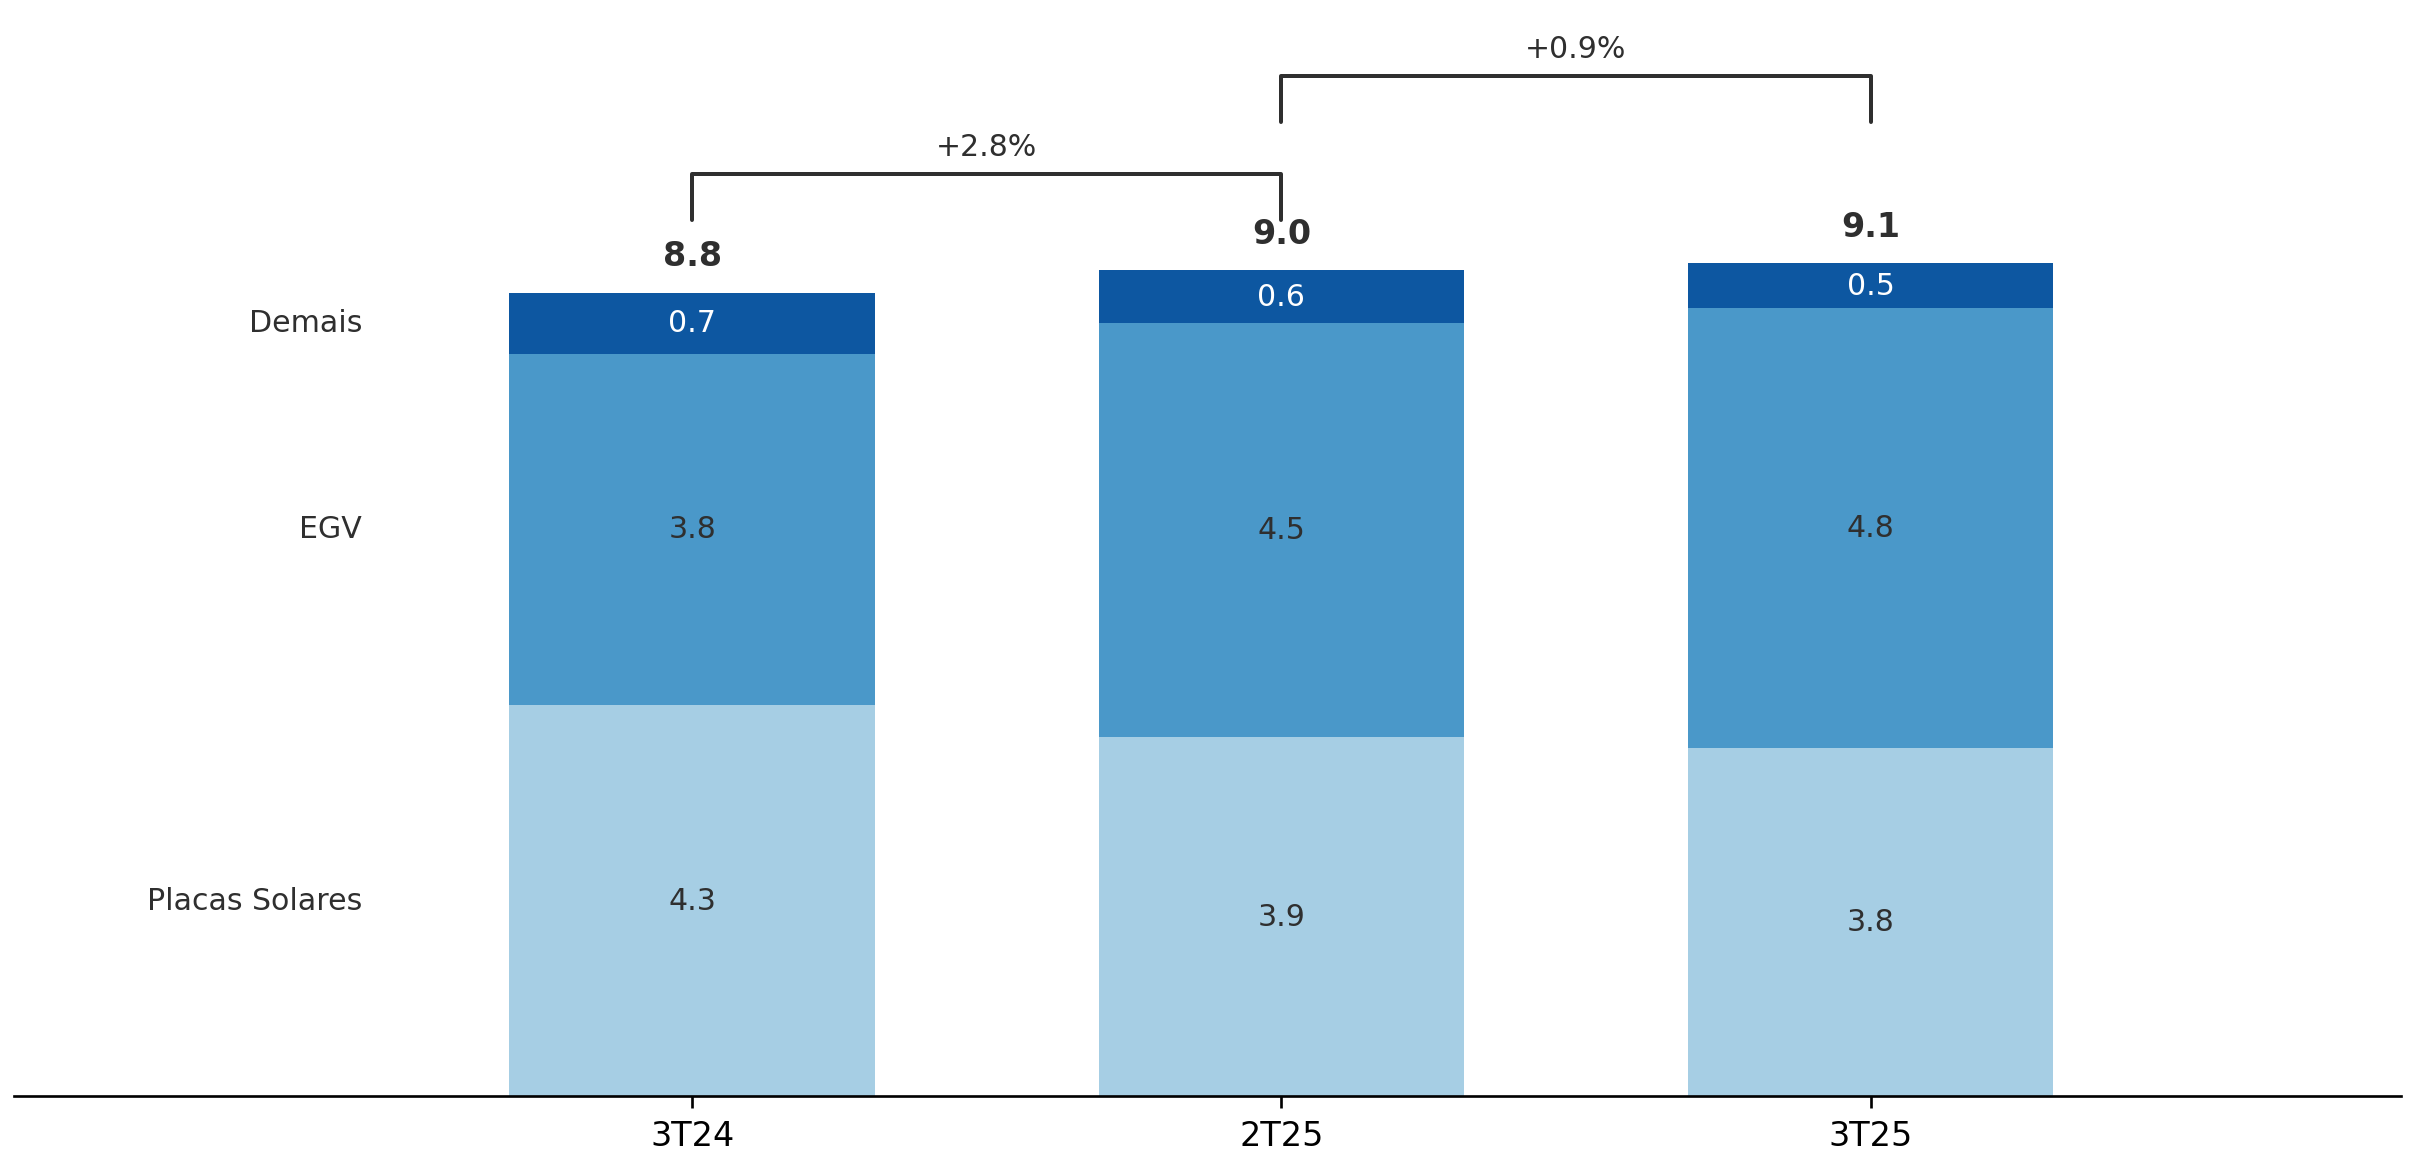
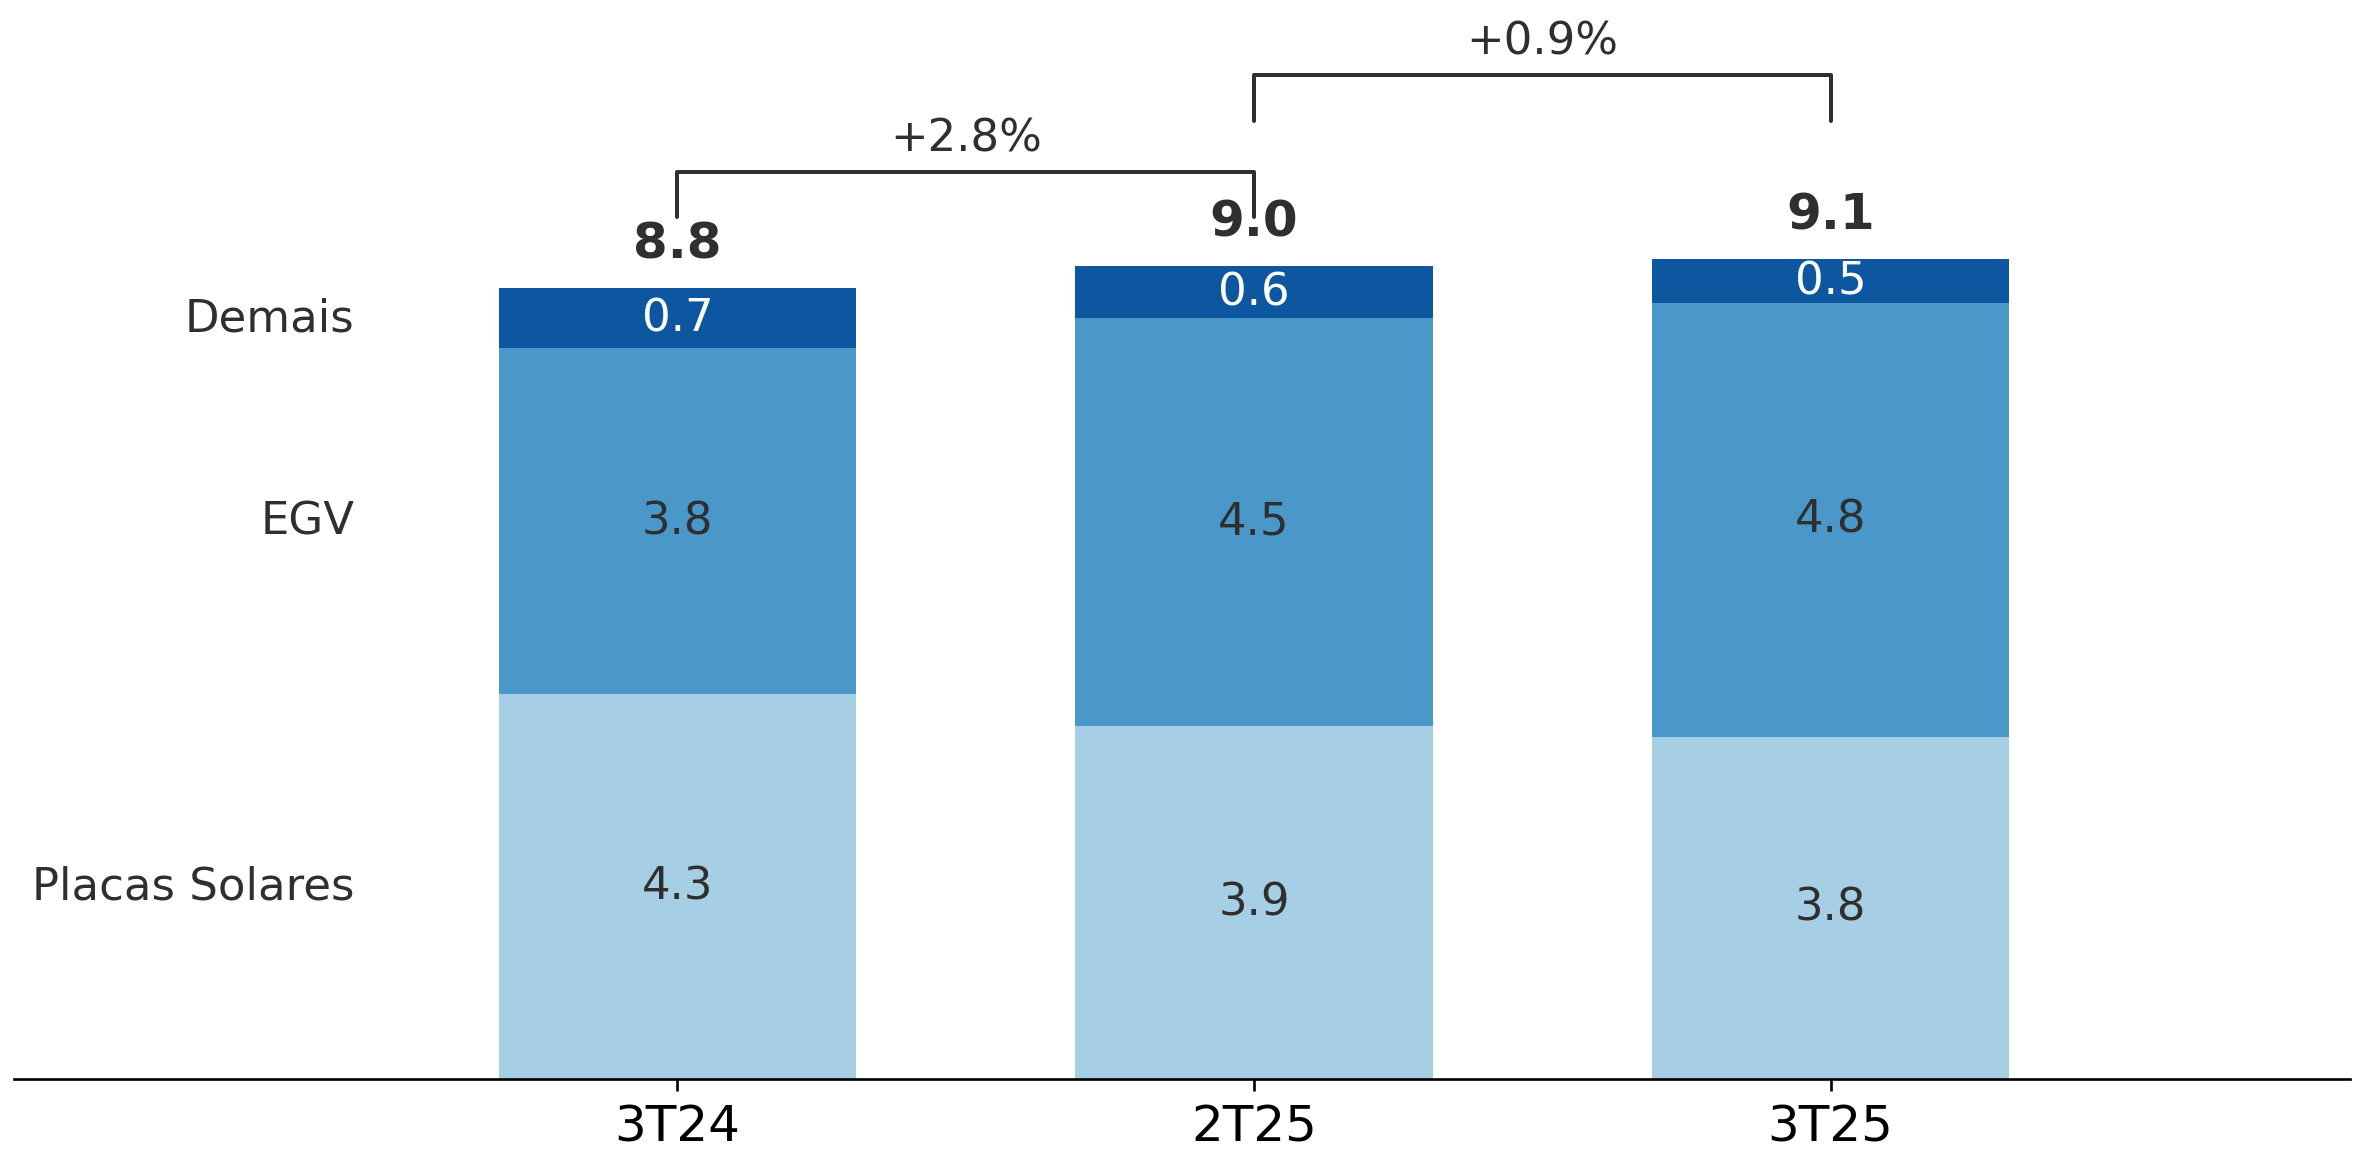
make the slide 3 chart font size higher

diff --git a/utils/slide3_charts.py b/utils/slide3_charts.py
@@ -112,6 +112,7 @@ def plot_emprestimos_stacked(
     left_label_margin_slots: float = 1.15,
     show_delta_pct: bool = True,
     show_delta_bracket: bool = True,
+    font_scale: float = 1.0,
     figsize=(10, 4.8),
     dpi: int = 240,
 ):
@@ -169,7 +170,7 @@ def plot_emprestimos_stacked(
                 str(label),
                 ha="right",
                 va="center",
-                fontsize=9,
+                fontsize=9 * float(font_scale),
                 color="#2f2f2f",
                 clip_on=False,
             )
@@ -187,7 +188,7 @@ def plot_emprestimos_stacked(
                     _fmt_number(val, decimals=1),
                     ha="center",
                     va="center",
-                    fontsize=9,
+                    fontsize=9 * float(font_scale),
                     color=_text_color_for_bg_rgba(color),
                 )
 
@@ -203,7 +204,7 @@ def plot_emprestimos_stacked(
             xytext=(0, 6),
             ha="center",
             va="bottom",
-            fontsize=10,
+            fontsize=10 * float(font_scale),
             fontweight="bold",
             color="#2f2f2f",
             clip_on=False,
@@ -257,7 +258,7 @@ def plot_emprestimos_stacked(
                 label,
                 ha="center",
                 va="bottom",
-                fontsize=9,
+                fontsize=9 * float(font_scale),
                 color="#2f2f2f",
                 zorder=5,
                 clip_on=False,
@@ -269,7 +270,7 @@ def plot_emprestimos_stacked(
             ax.set_ylim(cur_ymin, max(cur_ymax, delta_label_top + offset_y))
 
     ax.set_xticks(x)
-    ax.set_xticklabels(xlabels, rotation=0, fontsize=10)
+    ax.set_xticklabels(xlabels, rotation=0, fontsize=10 * float(font_scale))
     ax.set_yticks([])
     for s in ("left", "right", "top"):
         ax.spines[s].set_visible(False)
@@ -313,6 +314,7 @@ def generate_slide3_charts(*, xlsx_path: Path, output_dir: Path) -> list[Path]:
         left_label_margin_slots=1.15,
         show_delta_pct=True,
         show_delta_bracket=True,
+        font_scale=1.5,
         dpi=240,
         figsize=(10, 4.8),
     )
@@ -331,6 +333,7 @@ def generate_slide3_charts(*, xlsx_path: Path, output_dir: Path) -> list[Path]:
             show_delta_bracket=True,
             value_decimals=1,
             bar_width_scale=0.70,
+            font_scale=1.5,
             output_path=out09,
         )
     )

diff --git a/utils/charts_common.py b/utils/charts_common.py
@@ -35,6 +35,8 @@ class ExcelBarChartSpec:
     value_decimals: Optional[int] = None
     # Optional: multiply computed bar width (e.g. 0.70 for 30% thinner)
     bar_width_scale: float = 1.0
+    # Optional: scale all font sizes (e.g. 1.5 to increase by ~50%)
+    font_scale: float = 1.0
 
 
 def _read_range_row(ws, cell_range: str) -> List[object]:
@@ -176,12 +178,19 @@ def plot_bar_from_excel(spec: ExcelBarChartSpec) -> Tuple[plt.Figure, plt.Axes]:
 
     is_9m_two_bars = bool(spec.fixed_slot_count) and n == 2 and slot_count > n
 
+    try:
+        font_scale = float(spec.font_scale)
+    except Exception:
+        font_scale = 1.0
+    if not np.isfinite(font_scale) or font_scale <= 0:
+        font_scale = 1.0
+
     font_base = 9
     if is_9m_two_bars:
         font_base = 12
-    font_value = font_base
-    font_xtick = font_base
-    font_delta = font_base
+    font_value = float(font_base) * font_scale
+    font_xtick = float(font_base) * font_scale
+    font_delta = float(font_base) * font_scale
 
     step = 1.0
     x_pad = 0.5
